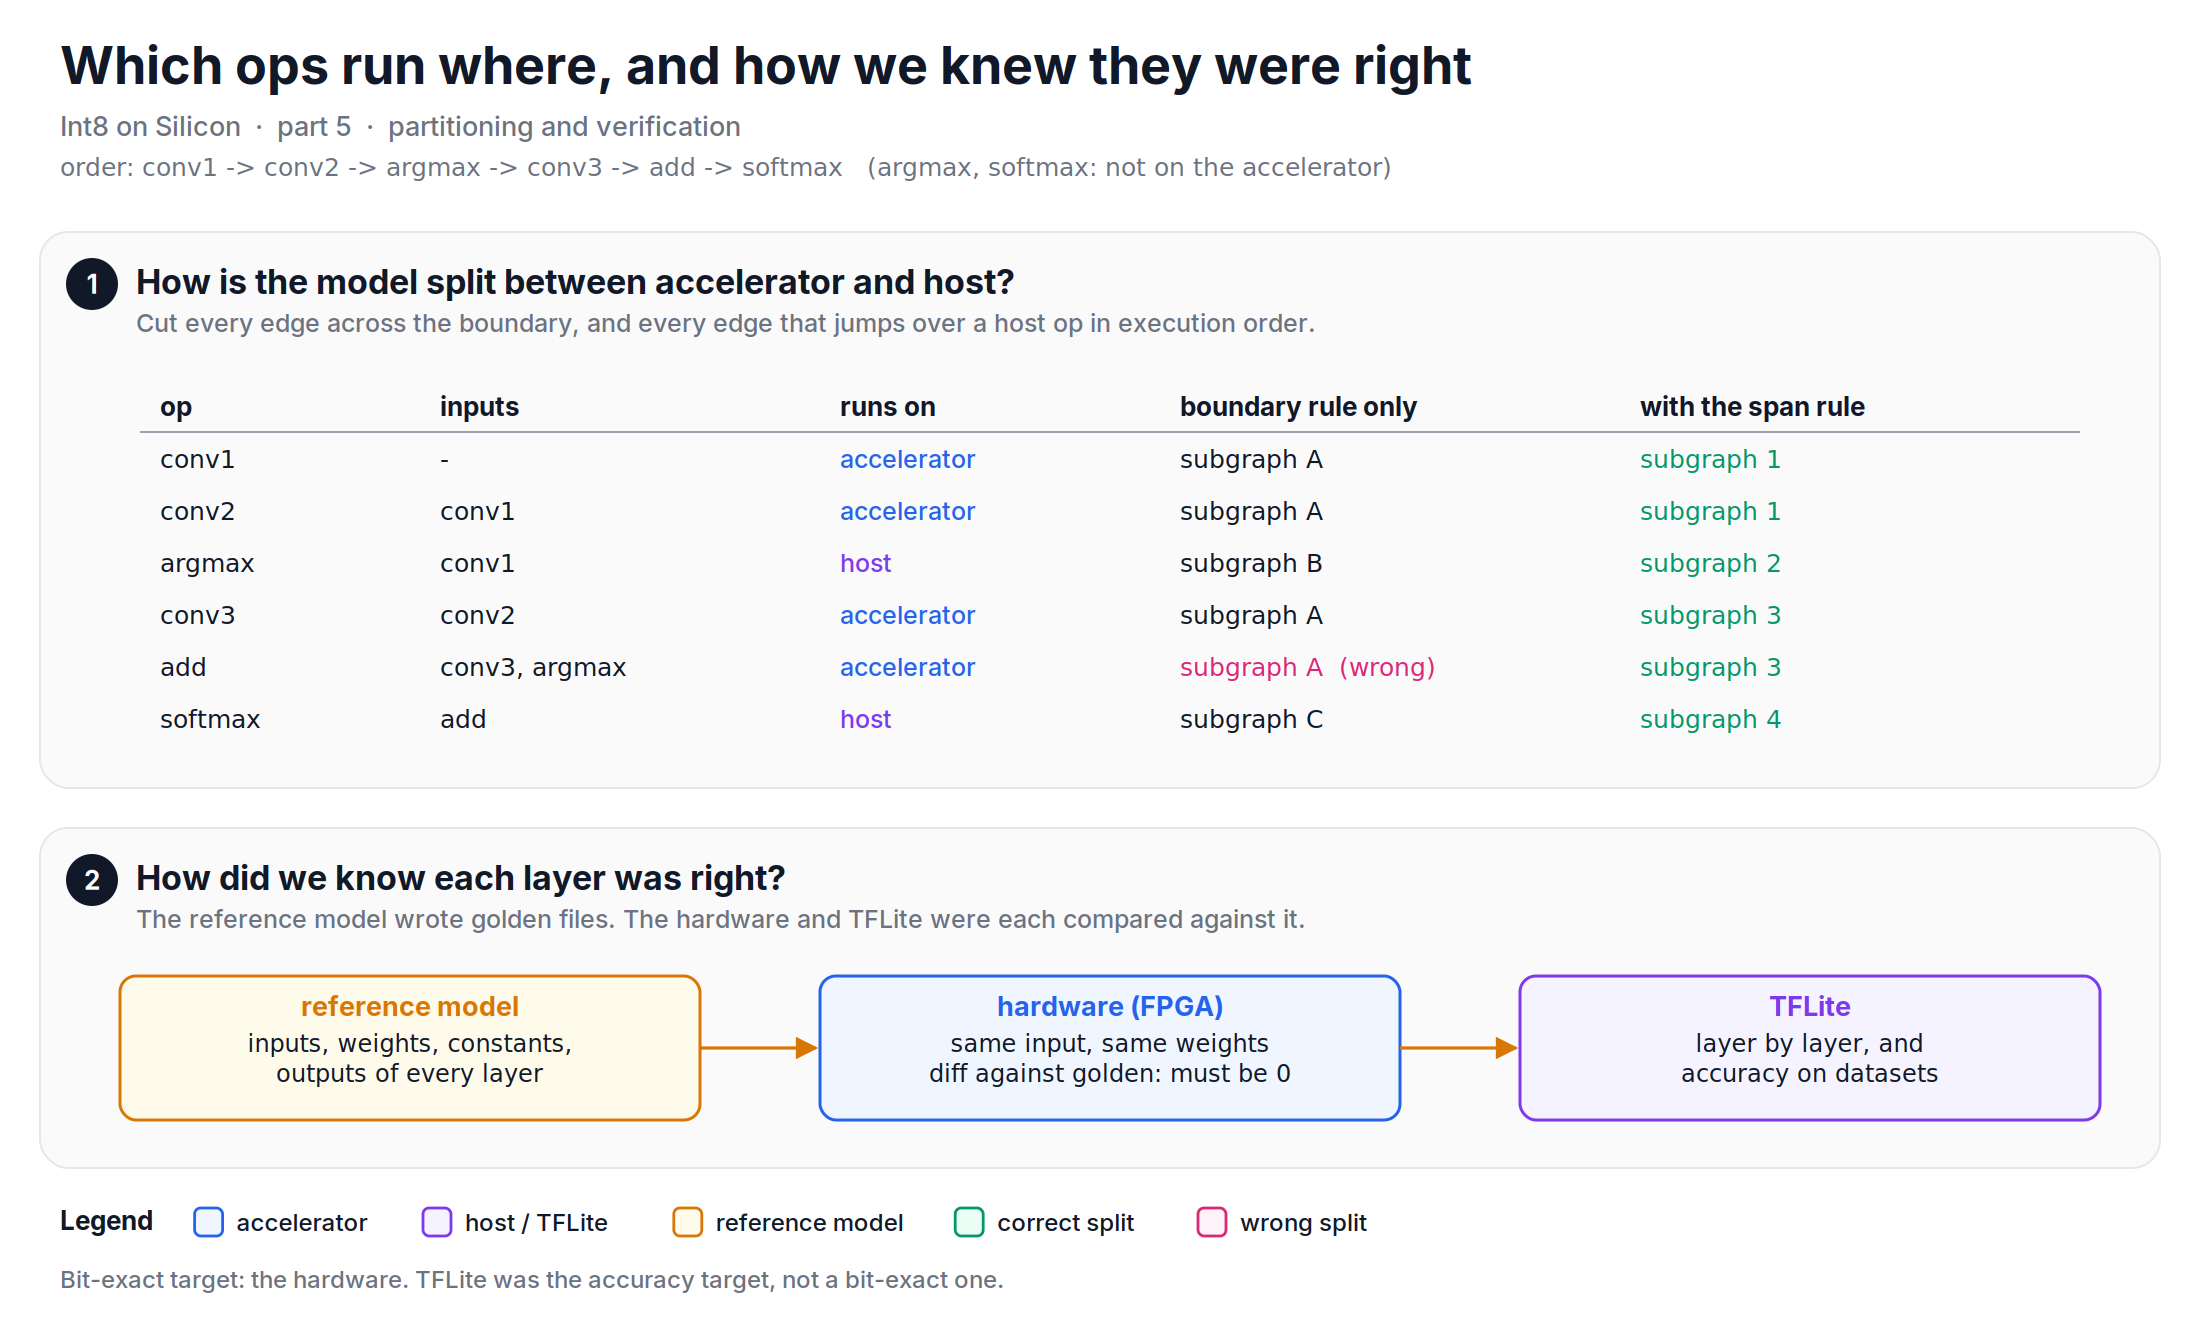
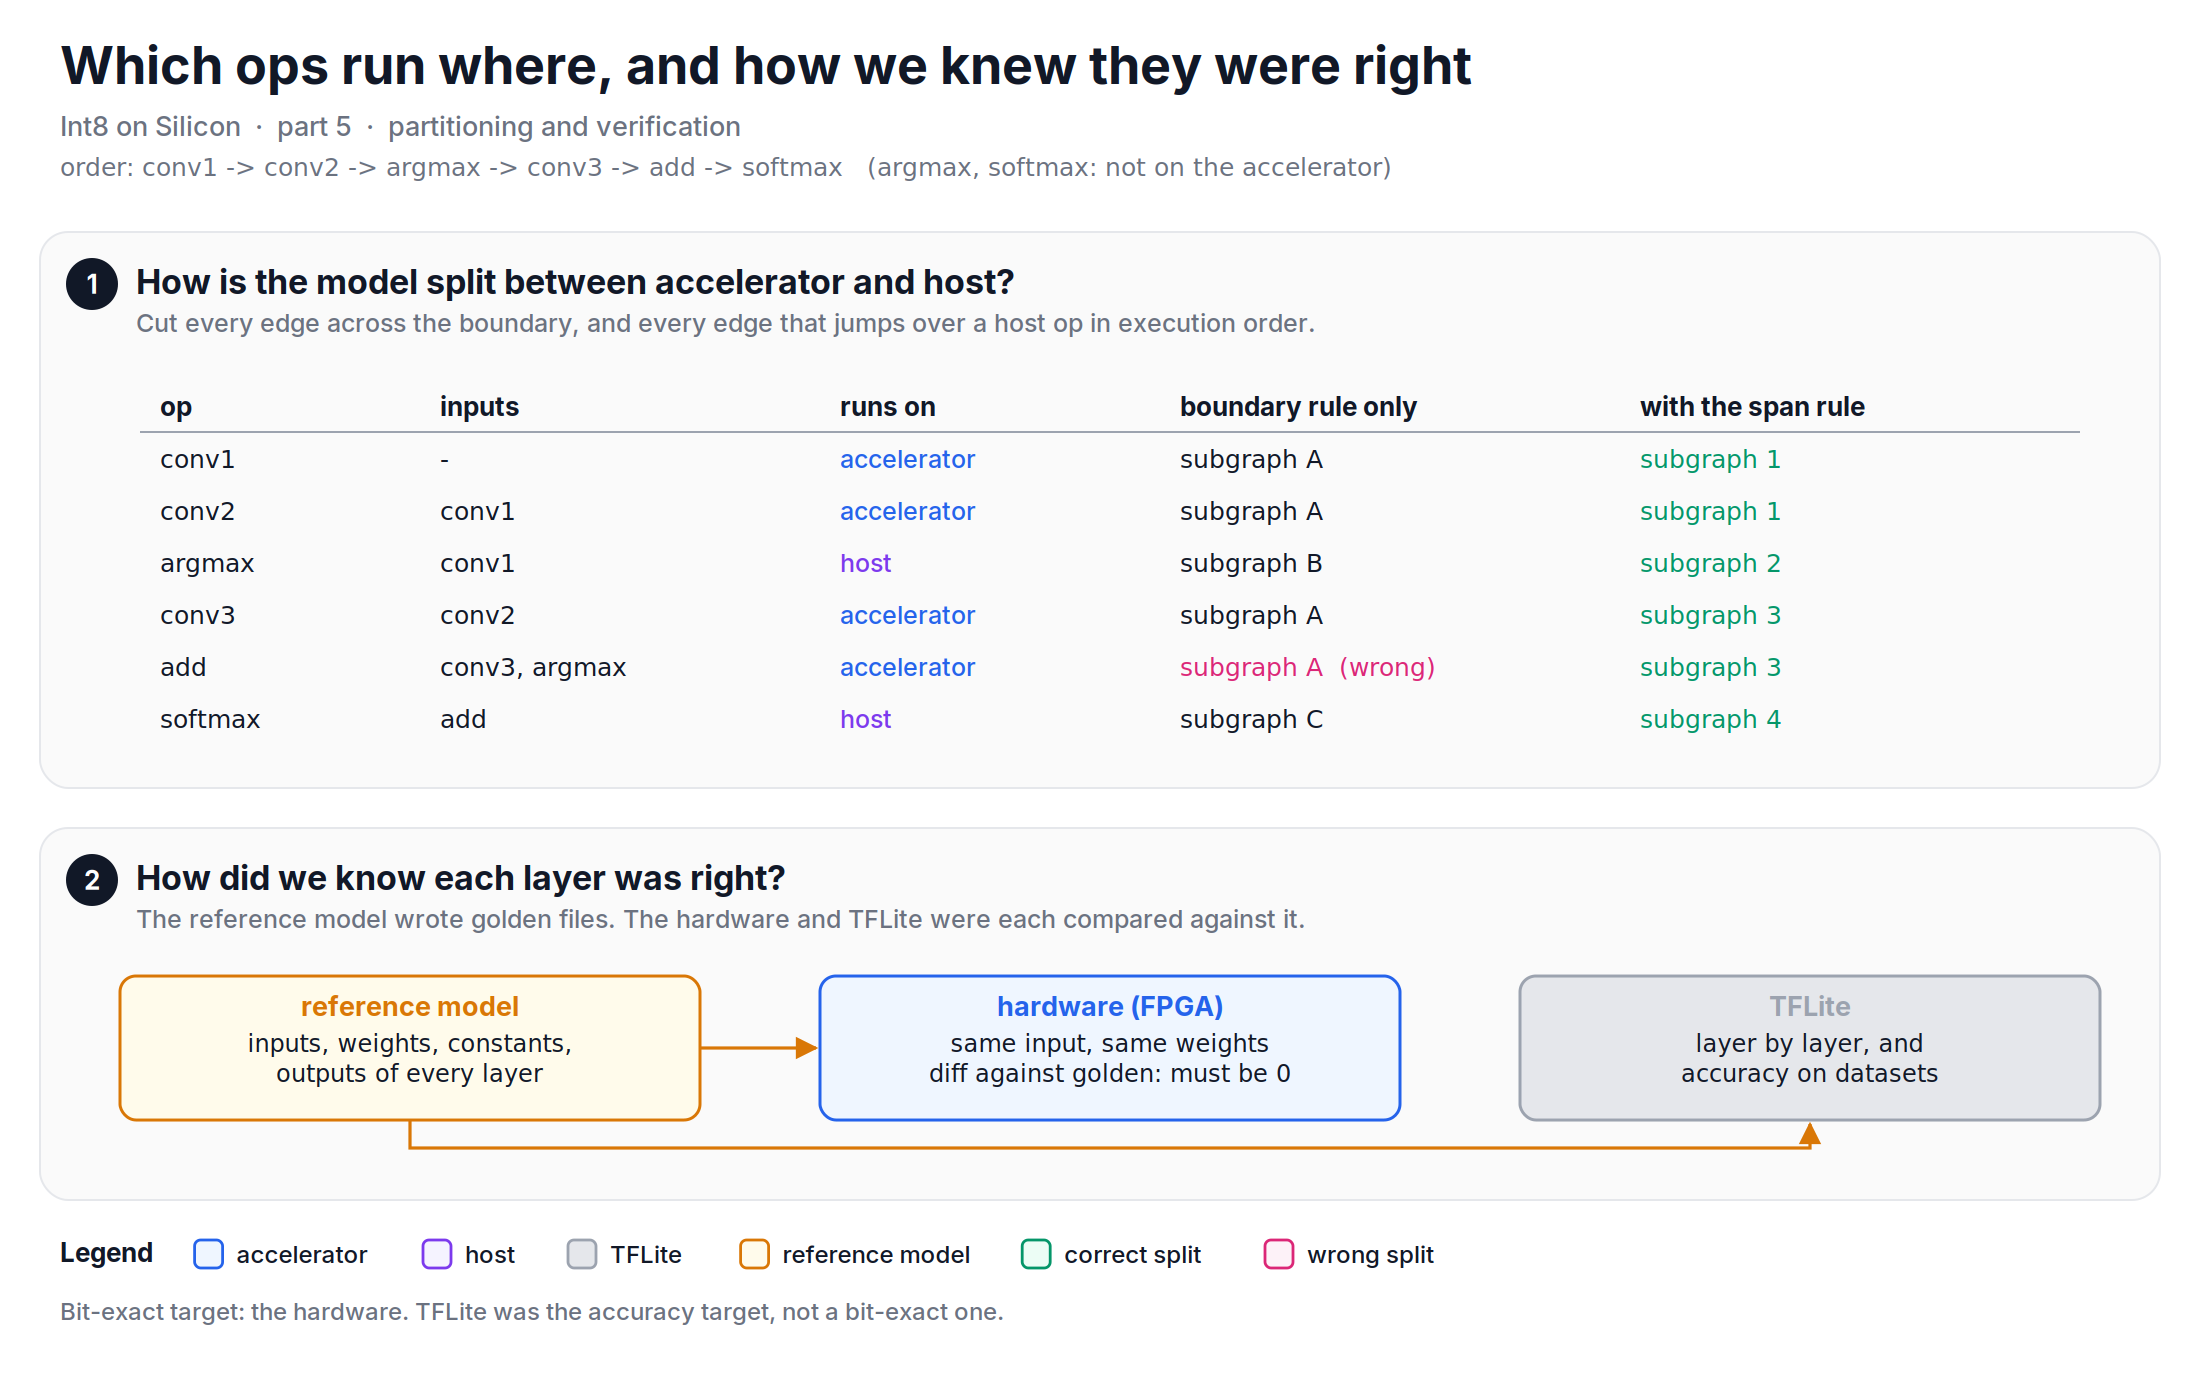
Int8 on Silicon, part 5: review fixes
Rewrite checks attributed to this note's script, accumulator dumps
described as in the code, CRD/DCR and flatbuffer defined, partition
example split into steps, figure 3 with separate arrows and a TFLite
colour, title with comma used everywhere, Is-pass line in the code.

diff --git a/learnings/20261107_int8_on_silicon_5/diagrams/fig3_partition_verify.py b/learnings/20261107_int8_on_silicon_5/diagrams/fig3_partition_verify.py
@@ -44,15 +44,16 @@ for i, r in enumerate(rows):
 y += H + 20
 BW, BH = 290, 72
 XS = [60, 410, 760]
-d.panel(y, 170, 2, "How did we know each layer was right?",
+d.panel(y, 186, 2, "How did we know each layer was right?",
         "The reference model wrote golden files. The hardware and TFLite were each compared against it.")
 d.box(XS[0], y + 74, BW, BH, "reference model", ["inputs, weights, constants,", "outputs of every layer"], col=AMBER, mono_size=12)
 d.arrow(XS[0] + BW, y + 110, XS[1] - 2, y + 110, AMBER)
 d.box(XS[1], y + 74, BW, BH, "hardware (FPGA)", ["same input, same weights", "diff against golden: must be 0"], col=BLUE, mono_size=12)
-d.arrow(XS[1] + BW, y + 110, XS[2] - 2, y + 110, AMBER)
-d.box(XS[2], y + 74, BW, BH, "TFLite", ["layer by layer, and", "accuracy on datasets"], col=VIOLET, mono_size=12)
+x1c, x3c, yb = XS[0] + BW / 2, XS[2] + BW / 2, y + 74 + BH
+d.path_arrow(f"M {x1c:.1f},{yb:.1f} L {x1c:.1f},{yb + 14:.1f} L {x3c:.1f},{yb + 14:.1f} L {x3c:.1f},{yb + 2:.1f}", AMBER)
+d.box(XS[2], y + 74, BW, BH, "TFLite", ["layer by layer, and", "accuracy on datasets"], col=NEUTRAL, mono_size=12)
 
-y += 190
-d.legend(30, y, [(BLUE, "accelerator"), (VIOLET, "host / TFLite"), (AMBER, "reference model"), (EMERALD, "correct split"), (PINK, "wrong split")])
+y += 206
+d.legend(30, y, [(BLUE, "accelerator"), (VIOLET, "host"), (NEUTRAL, "TFLite"), (AMBER, "reference model"), (EMERALD, "correct split"), (PINK, "wrong split")])
 y = d.footnotes(30, y + 40, ["Bit-exact target: the hardware. TFLite was the accuracy target, not a bit-exact one."])
 d.save(height=y + 10)

diff --git a/learnings/20261107_int8_on_silicon_5/diagrams/fig2_rewrites.py b/learnings/20261107_int8_on_silicon_5/diagrams/fig2_rewrites.py
@@ -9,7 +9,7 @@ from svglib import AMBER, EMERALD, NEUTRAL, Diagram
 d = Diagram(width=1100)
 d.header("Three rewrites, each checked in NumPy",
          "Int8 on Silicon  ·  part 5  ·  the graph changes, the output does not",
-         params="every rewrite is checked: the new graph gives the same int8 output as the old one")
+         params="each rewrite is checked in this note's script: the new graph gives the same int8 output as the old one")
 
 BW, BH = 290, 72
 XS = [60, 410, 760]

diff --git a/learnings/20261107_int8_on_silicon_4/linkedin-post.md b/learnings/20261107_int8_on_silicon_4/linkedin-post.md
@@ -20,7 +20,7 @@ The ideas held up. But re-running everything in NumPy this week found four small
 
 All cheap to fix. Final model accuracy was still on par with TFLite.
 
-Code and figure scripts are in my kaizen repo (link in comments). Part 5: the compiler frontend and verification.
+Code and figure scripts are in my kaizen repo (link in comments). Part 5: the compiler frontend, and how we verified it.
 
 ---
 
